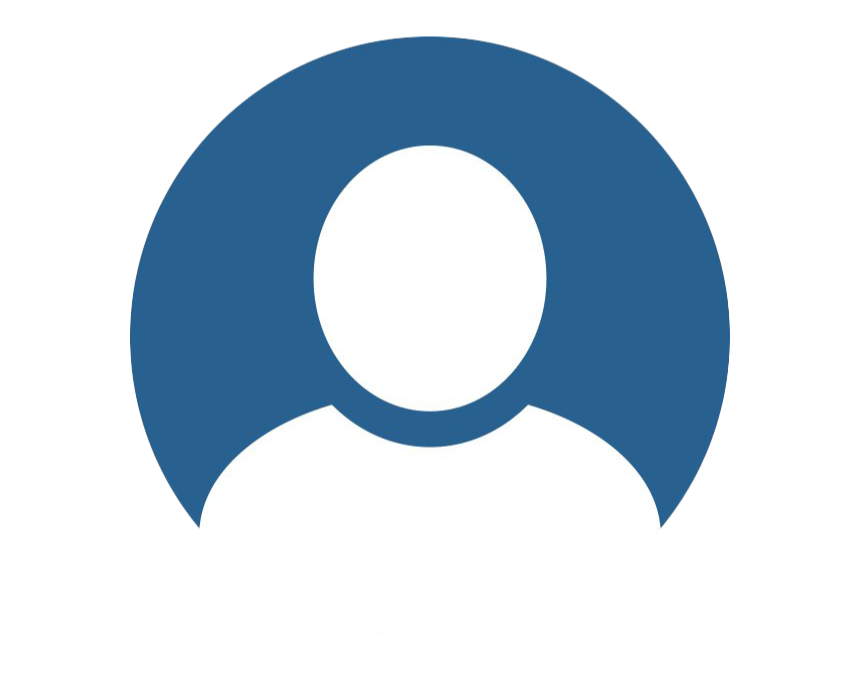
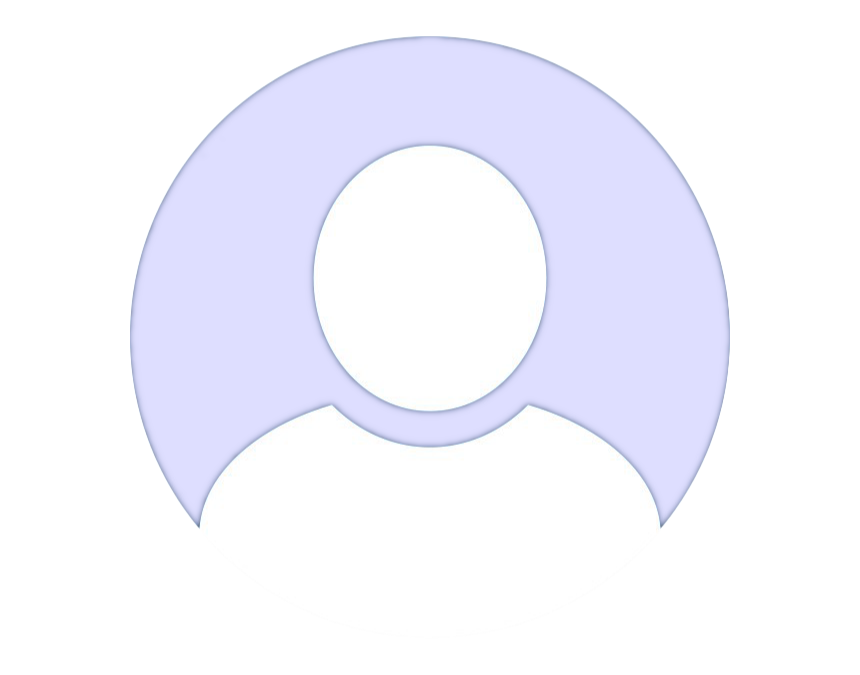
Profile picture

Changed region(s): [[0.1512, 0.0311, 0.8465, 0.7778]]

diff --git a/style.css b/style.css
@@ -1,6 +1,6 @@
 :root {
   --primary--color--: #e6e6ff;
-  --secondary--color--: #e6e6ff;
+  /* --secondary--color--: #e6e6ff; */
   --white--color: #fff;
 }
 
@@ -71,7 +71,7 @@ body {
   height: 50%;
   border-radius: 2rem;
   border: none;
-  background-color: var(--secondary--color--);
+  background-color: var(--primary--color--);
   font-size: 1.6rem;
   padding-left: 1rem;
   appearance: none;
@@ -116,25 +116,39 @@ border-radius: 0 0 2rem 2rem;
 
 .user__info{
   height: 100%;
-  /* width: 40%; */
-  margin-left: 10rem;
   display: flex;
   border: 1px solid black;
   justify-content: space-between;
   position:relative;
 }
 
-.user__info img {
+.user__info span {
+position: relative;
+width: 18rem;
+height: 18rem;
+}
+
+.user__info span img {
+  height: 100%;
+  width: 100%;
+  position: absolute;
+  left: 0%;
+  top: -50%;
+  border:5px solid var(--white--color);
+  border-radius: 50%;
+}
+
+/* .user__info img {
    position:absolute; 
    top: 0%;
    left: 0%;
-   /* height: 50rem;
-   width: 50rem; */
-}
+    height: 50rem;
+   width: 50rem; 
+} */
 
 
 .user__edit {
-width: 13%;
+min-width: 15%;
 display: flex;
 justify-content: space-between;
 background-color: var(--primary--color--);
@@ -144,7 +158,11 @@ align-items: center;
 padding: 1rem 2rem;
 border-radius: 1rem;
 align-self: flex-end;
+cursor: pointer;
+}
 
+.user__edit:hover{
+  background-color: #ccccff;
 }
 
 .user__edit img {

diff --git a/index.html b/index.html
@@ -30,7 +30,7 @@
           <div class="user__profile">
             <div class="user__info">
               <span>
-                <img src="img/profile.png" alt="profile" />
+                <img src="img/profile5.png" alt="profile" />
               </span>
               <div class="user__text">
                 <p>Test User</p>
